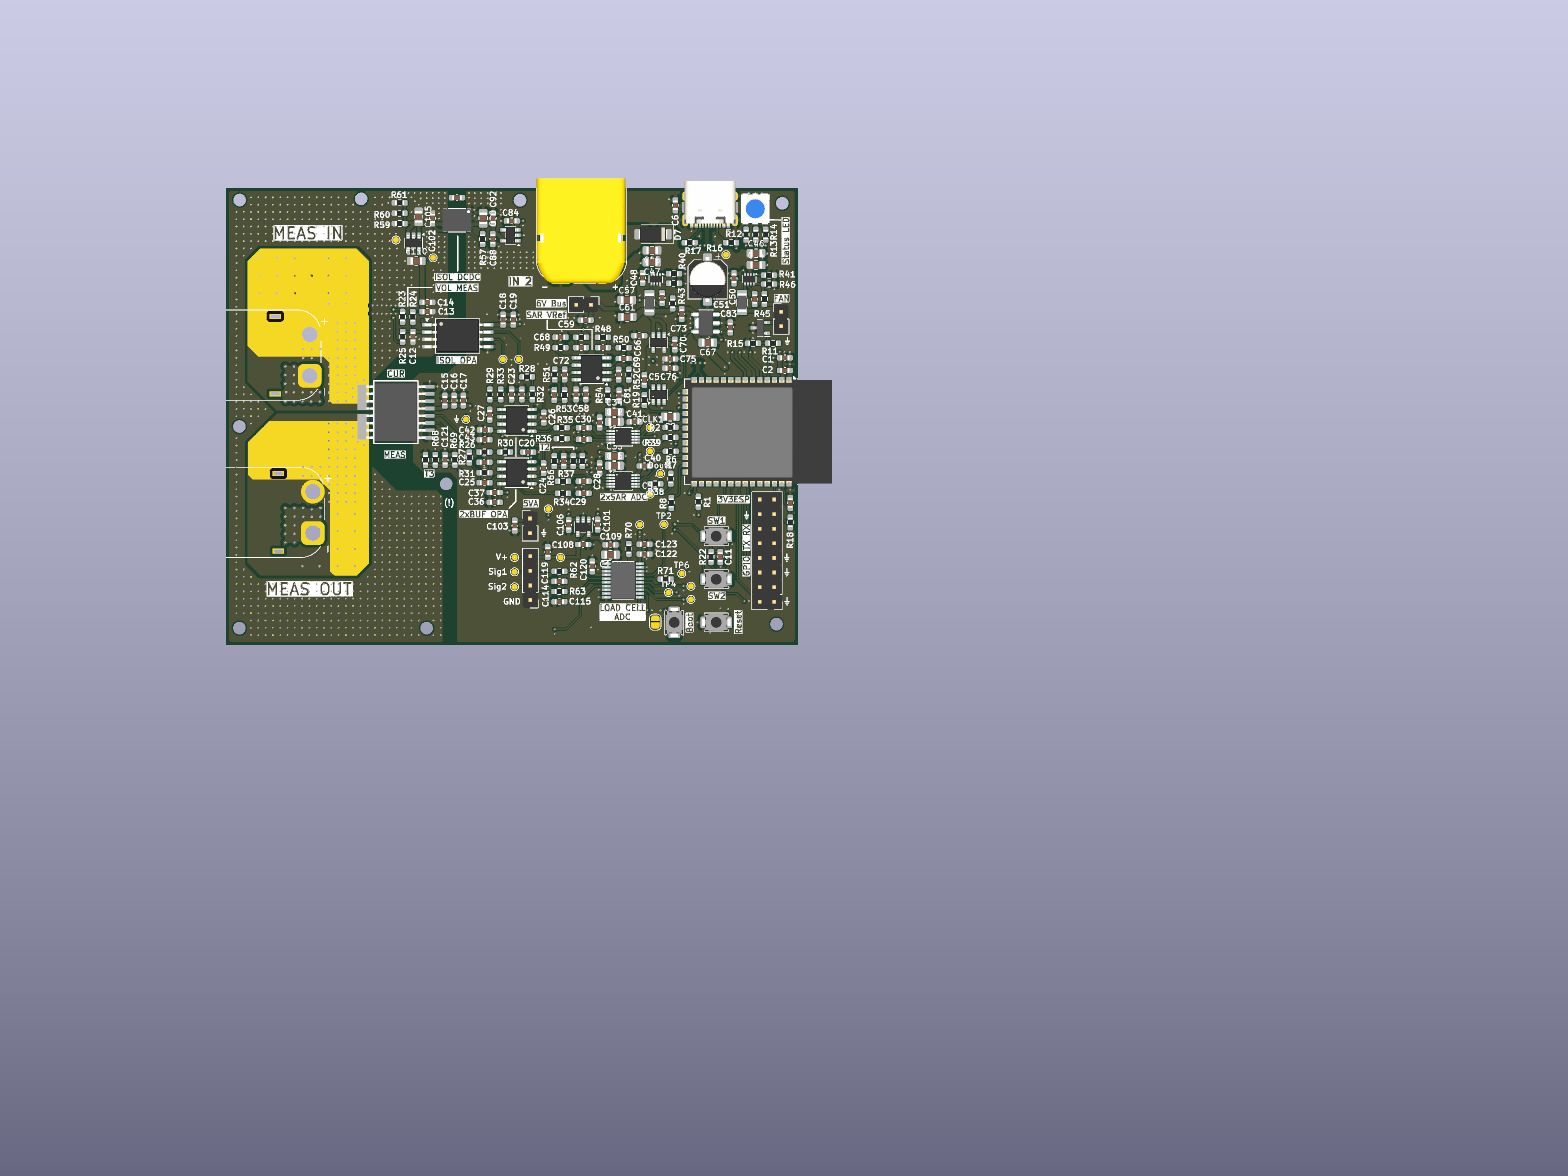
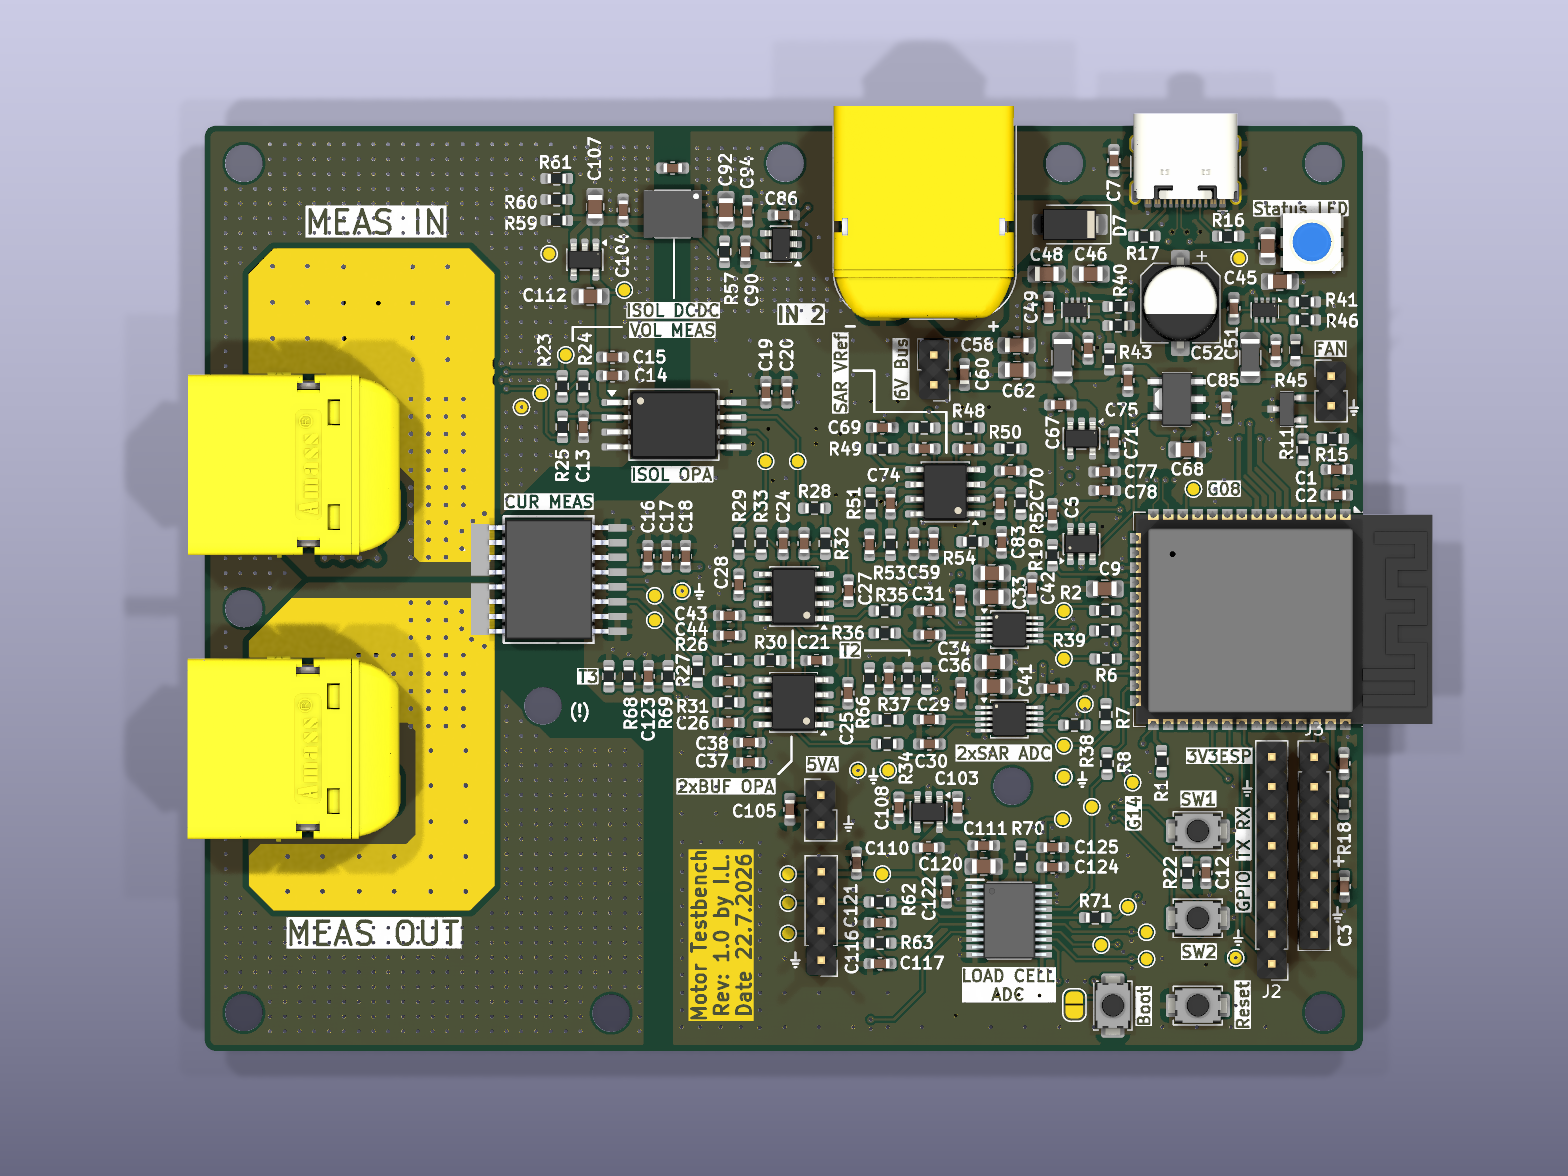
Add raytrace picture
[KiCad Version: 10.0.4]

diff --git a/README.md b/README.md
@@ -1,10 +1,11 @@
 <!-- KICAD_DIFF_GEN_START -->
 <p align="center"><img src="docs/motor_testbench_v1_0_top.png" width="500"><br><b>Top</b></p>
+<p align="center"><img src="docs/motor_testbench_v1_0_bottom.png" width="500"><br><b>Bottom</b></p>
 
 <p align="center"><img src="docs/motor_testbench_v1_0.svg" width="700"><br><b>Schematic — Page 1</b></p>
-<p align="center"><img src="docs/motor_testbench_v1_0-Load Cell and Temperature Measurements.svg" width="700"><br><b>Load Cell And Temperature Measurements — Page 2</b></p>
-<p align="center"><img src="docs/motor_testbench_v1_0-Power Regulation.svg" width="700"><br><b>Power Regulation — Page 3</b></p>
-<p align="center"><img src="docs/motor_testbench_v1_0-Voltage and Current Measurements.svg" width="700"><br><b>Voltage And Current Measurements — Page 4</b></p>
+<p align="center"><img src="docs/motor_testbench_v1_0-Power Regulation.svg" width="700"><br><b>Power Regulation — Page 2</b></p>
+<p align="center"><img src="docs/motor_testbench_v1_0-Voltage and Current Measurements.svg" width="700"><br><b>Voltage And Current Measurements — Page 3</b></p>
+<p align="center"><img src="docs/motor_testbench_v1_0-Load Cell and Temperature Measurements.svg" width="700"><br><b>Load Cell And Temperature Measurements — Page 4</b></p>
 
 ---
 ## 🛠 Technical Hardware Summary
@@ -15,34 +16,34 @@
 | :--- | :--- |
 | **Board Dimensions** | 99.5 x 79.51 mm |
 | **Total Area** | 7910.75 mm² |
-| **Layer Count** | 4 Copper Layers |
-| **Total Components** | 284 |
-| **SMD Components** | 242 |
-| **THT Components** | 8 |
+| **Layer Count** | 6 Copper Layers |
+| **Total Components** | 286 |
+| **SMD Components** | 244 |
+| **THT Components** | 9 |
 | **Unique Parts** | 72 |
+| **DRC Status** | ⚠️ 26 Errors, 109 Warnings |
 | **KiCad Version** | 10.0.4 |
 
 ### 📐 Manufacturing & DRC
 | Metric | Value |
 | :--- | :--- |
-| **Vias** | 1293 Total (1293 TH, 0 Blind, 0 Micro) |
+| **Vias** | 1443 Total (1443 TH, 0 Blind, 0 Micro) |
 
 ### 📄 Architecture
 - **Digital Buses:** `ESP_UART_RX, ESP_UART_TX, ESP_USB_D+, ESP_USB_D-`
 - **Power Domains:** `+3V3, GND, GNDREF`
 
 ### ⚙️ Mechanical
-- **Mounting Holes:** 12 (H11 (MountingHole_2.2mm_M2_DIN965), H12 (MountingHole_2.2mm_M2_DIN965), H10 (MountingHole_2.2mm_M2_DIN965), H7 (MountingHole_2.2mm_M2_DIN965), H1 (MountingHole_2.2mm_M2_DIN965), H8 (MountingHole_2.2mm_M2_DIN965), H6 (MountingHole_2.2mm_M2_DIN965), H2 (MountingHole_2.2mm_M2_DIN965), H5 (MountingHole_2.2mm_M2_DIN965), H4 (MountingHole_2.2mm_M2_DIN965), H3 (MountingHole_2.2mm_M2_DIN965), H9 (MountingHole_2.2mm_M2_DIN965))
+- **Mounting Holes:** 10 (H10 (MountingHole_3.2mm_M3), H9 (MountingHole_3.2mm_M3), H7 (MountingHole_3.2mm_M3), H1 (MountingHole_3.2mm_M3), H8 (MountingHole_3.2mm_M3), H6 (MountingHole_3.2mm_M3), H2 (MountingHole_3.2mm_M3), H5 (MountingHole_3.2mm_M3), H4 (MountingHole_3.2mm_M3), H3 (MountingHole_3.2mm_M3))
 
 ### 🚫 Do Not Populate (DNP)
-- C103 (1u)
-- C124 (1u)
-- C59 (1u)
-- C7 (1u)
-- C97 (100p)
-- C98 (22u)
-- C99 (22u)
-- IC2 (VIA2000SD)
+- C100 (22u)
+- C101 (22u)
+- C105 (1u)
+- C126 (1u)
+- C60 (1u)
+- C8 (1u)
+- C99 (100p)
 - R18 (22R)
 - R40 (R)
 - R41 (R)
@@ -56,26 +57,26 @@
 ### 📝 Project TODOs
 - TODO: Check Min / Max stable capacitances for the LDOS
 - TODO: FIND PROPER 6V 800mA INPUT TO 3V3 LDO
-- TODO: VAIHDA TÄHÄN PAREMPI ANTURI...
+- TODO: MAADOITA NÄMÄ?
+- TODO: TARKASTA PINOUT: TLV9001SIDBVRG4\n
 - TODO: VAIHDA TÄHÄN\nMouser No:\n637-PSOT36\nMfr. No:\nPSOT36
-- TODO:\n- VAIHDA / VALIKOI SEURAAVAT UUSIKSI:\n	-> VAIHDA ISO OPA !! ETSI ISOMPI SWINGINEN JA RATIOMETRINEN!\n	-> VAIHDA EHKÄ 22uF KONKAT 0806 KOKOON!\n-> FIXAA TUO HIGH CURRENT LIITTIMIEN LAYOUT\n-> LAYER STITCHING (LOPUKSI)\n-> SILKSCREENIT KUNTOON
-- TODO:\n\n- VAIHDA FULLY DIFFERENTIAL OPARIT JA FULLY DIFFERENTIAL MCP33131D VARIANTTI\n- LINJAA KAIKKI HW MOUNTIT, ESIM NUO MOUNTING HOLET\n- SIIRRÄ MAHDOLLISESTI TUO ACS LÄMPÖMITTAUKSEN TRACE SUOJAISAMPAAN KERROKSEEN?\n- POISTA TUO YKSI GPIO HEADER JOS SE HAITTAA ENEMMÄN KUIN HYÖDYTTÄÄ\n- LISÄÄ NAPPEJA / LEDEJÄ KÄYTTÖÄ VARTEN?\n- TULEEKO JOKU NÄYTTÖ?\n- KORJAA EDGE CUTS !!\n- VAIHDETAANKO VIRTA-ANTURIA? CZ3A05\n- LAITA ISON VIRRAN PUOLEN VIAT KUNTOON ! TARKASTA ETTEI POISTETTU MASKI OLE LIIAN LHÄELLÄ / LISÄÄ TURVAVÄLIÄ!\n	-> JOTKUT VIAT NYT RISKITEKIJÖITÄ! TINA VALUU NIIHHIN JA SHORTTAA YLÄKERROKSEN SUORAAN ALAS!!!\n- PITÄISIKÖ XT LIITTIMET KÄÄNTÄÄ TAKAISIN KOHTI PÄÄTYÄ JOLLOIN SAISI ENEMMÄN JÄHDYTYS PINTA-ALAA LEVYLLÄE / TRACE SEKÄ LYHENEE ETTÄ LEVENEE !?\n- VAIHDA ESP32 KUNNOLLINEN 6V KESTÄVÄ LDO !?\n- LAITA JOKU ENABLE / RESET NAPPI JOLLA ESP32 SAA BOOTATTUA / BOOT MODEEN / BOOTLOADERIN LADATTUA !!!!
+- TODO:\n\nVARMISTA ETTÄ PINNIT JA FOOTPRINT OIKEAT:\nPJA3402_R1_00001\nSOT-23-3\n
 
 ### 🧠 Core ICs & Modules
 | Reference | Component | Function / Description |
 | :--- | :--- | :--- |
-| IC6 | [MCP3564RT-E_ST](https://octopart.com/search?q=MCP3564RT-E/ST) | Analog to Digital Converters - ADC 24-bit delta-sigma ADC w/Vref, Quad channel, 3V |
-| IC1 | [PJA3402_R1_00001](https://octopart.com/search?q=PJA3402_R1_00001) | MOSFETs 30V N-Channel Enhancement Mode MOSFET |
+| IC6 | [MCP3564RT-E_ST](https://componentsearchengine.com/search.html?searchString=MCP3564RT-E/ST) | Analog to Digital Converters - ADC 24-bit delta-sigma ADC w/Vref, Quad channel, 3V |
+| IC1 | [PJA3402_R1_00001](https://componentsearchengine.com/search.html?searchString=PJA3402_R1_00001) | MOSFETs 30V N-Channel Enhancement Mode MOSFET |
 | U1 | ESP32-S3-WROOM-1 | RF Module, ESP32-S3 SoC, Wi-Fi 802.11b/g/n, Bluetooth, BLE, 32-bit, 3.3V, onboard antenna, SMD |
 | U2 | OPA310SxDBV | Single Rail-to-Rail Input/Output Operational Amplifier with Shutdown, 1.5..5.5V supply, 3MHz GBW, 250uV offset voltage, 150mA output current, SOT-23-6 |
 | U8 | TPS62933 | 3.8-30V, 3A Synchronous Buck Converters with pulse frequency modulation (PFM), SOT583-8 |
-| IC4 | [AP7361C-33Y5-13](https://octopart.com/search?q=AP7361C-33Y5-13) | DIODES INC. - AP7361C-33Y5-13 - LDO, FIXED, 3.3V, 1A, -40 TO 85DEG C |
+| IC4 | [AP7361C-33Y5-13](https://componentsearchengine.com/search.html?searchString=AP7361C-33Y5-13) | DIODES INC. - AP7361C-33Y5-13 - LDO, FIXED, 3.3V, 1A, -40 TO 85DEG C |
 | U10 | OPA2387DR | Precision, 10-MHz, Low-Noise, Low-Power, RRIO, CMOS Operational Amplifier, SOIC-8 |
-| IC3 | [NCV8184DR2G](https://octopart.com/search?q=NCV8184DR2G) | 70 mA Source Capability; Output Tracks within +/- 3m V; Low Input Voltage Tracking Performance (Works Down to Vref = 2.0 V); Low Dropout (0.35 V Typ.@50 mA); Low Quiescent Current; Thermal Shutdown; AEC Qualified; PPAP Capable |
+| IC3 | [NCV8184DR2G](https://componentsearchengine.com/search.html?searchString=NCV8184DR2G) | 70 mA Source Capability; Output Tracks within +/- 3m V; Low Input Voltage Tracking Performance (Works Down to Vref = 2.0 V); Low Dropout (0.35 V Typ.@50 mA); Low Quiescent Current; Thermal Shutdown; AEC Qualified; PPAP Capable |
 | U14 | TPS7A2018PDBVRG4 | TPS7A2018PDBVRG4 |
 | U9 | TPS62933 | 3.8-30V, 3A Synchronous Buck Converters with pulse frequency modulation (PFM), SOT583-8 |
 | U18 | TPS7A2045PDBVR | TPS7A2045PDBVR |
-| IC5 | [MIE1W0505BGLVH-3R-P](https://octopart.com/search?q=MIE1W0505BGLVH-3R-P) | Isolated DC/DC Converters - SMD Next gen ultra small size isolated power module |
+| IC5 | [MIE1W0505BGLVH-3R-P](https://componentsearchengine.com/search.html?searchString=MIE1W0505BGLVH-3R-P) | Isolated DC/DC Converters - SMD Next gen ultra small size isolated power module |
 | U7 | MCP1502T-50E/CHY | Voltage References 50 ppm 0.1% Voltage Reference |
 | U11 | TPS7A2055PDBVR | TPS7A2055PDBVR |
 | U16 | TPS7A2055PDBVR | TPS7A2055PDBVR |
@@ -83,29 +84,29 @@
 | U13 | TPS7A2033PDBVR | TPS7A2033PDBVR |
 | U17 | TPS7A2033PDBVR | TPS7A2033PDBVR |
 | U12 | TPS7A2050PDBVR | TPS7A2050PDBVR |
-| U3 | [CZ3723](https://octopart.com/search?q=CZ3A05) | Board Mount Current Sensors 60A Precise unipolar Coreless Current Sensor w/UL61800 |
+| U3 | [CZ3723](https://componentsearchengine.com/search.html?searchString=CZ3A05) | Board Mount Current Sensors 60A Precise unipolar Coreless Current Sensor w/UL61800 |
 | U6 | OPA2328DR | Precision, 10-MHz, Low-Noise, Low-Power, RRIO, CMOS Operational Amplifier, SOIC-8 |
 | U4 | AMC1351DWV | Precision Reinforced Isolated Amplifier, 5V Input, 300 kHz Bandwidth, 0.4V/V, 0.2% Gain Tolerance, Differential Output, SOIC-8 |
 | U5 | OPA2328DR | Precision Amplifiers Dual-channel precis ion 50-uV offset vo |
-| IC2 | [VIA2000SD](https://octopart.com/search?q=VIA2000SD) | Isolation IC Inverters, Power Supplies 8-SOP Surface Mount |
 
 ### 🔌 Connectors & Interfaces
 | Reference | Type | Component | Description |
 | :--- | :--- | :--- | :--- |
-| J9 | Connector | Conn_01x04_Pin | Generic connector, single row, 01x04, script generated |
-| J2 | Connector | Conn_02x08_Odd_Even | Generic connector, double row, 02x08, odd/even pin numbering scheme (row 1 odd numbers, row 2 even numbers), script generated (kicad-library-utils/schlib/autogen/connector/) |
+| J11 | Connector | Conn_01x04_Pin | Generic connector, single row, 01x04, script generated |
+| J3 | Connector | Conn_01x07_Pin | Generic connector, single row, 01x07, script generated |
 | J1 | Connector | USB_C_Receptacle_USB2.0_16P | USB 2.0-only 16P Type-C Receptacle connector |
-| J8 | Connector | Conn_01x02_Pin | Generic connector, single row, 01x02, script generated |
-| J6 | Connector | Conn_01x02_Pin | Generic connector, single row, 01x02, script generated |
+| J2 | Connector | Conn_01x08_Pin | Generic connector, single row, 01x08, script generated |
+| J10 | Connector | Conn_01x02_Pin | Generic connector, single row, 01x02, script generated |
 | J7 | Connector | Conn_01x02_Pin | Generic connector, single row, 01x02, script generated |
-| J5 | Connector | V_bat_secondary | Generic connector, single row, 01x02, script generated |
-| J4 | Connector | [XT60PW-M](https://octopart.com/search?q=XT60PW-M) | Connector: DC supply; socket; XT60; male; PIN: 2; on PCBs; THT; 30A |
-| J3 | Connector | [XT60PW-M](https://octopart.com/search?q=XT60PW-M) | Connector: DC supply; socket; XT60; male; PIN: 2; on PCBs; THT; 30A |
+| J8 | Connector | Conn_01x02_Pin | Generic connector, single row, 01x02, script generated |
+| J6 | Connector | V_bat_secondary | Generic connector, single row, 01x02, script generated |
+| J5 | Connector | [XT60PW-M](https://componentsearchengine.com/search.html?searchString=XT60PW-M) | Connector: DC supply; socket; XT60; male; PIN: 2; on PCBs; THT; 30A |
+| J4 | Connector | [XT60PW-M](https://componentsearchengine.com/search.html?searchString=XT60PW-M) | Connector: DC supply; socket; XT60; male; PIN: 2; on PCBs; THT; 30A |
 
 ### 📏 Passive Components
 | Component | Breakdown |
 | :--- | :--- |
-| Capacitor | 96x0603, 27x0805 and 1xOther |
+| Capacitor | 97x0603, 28x0805 and 1xOther |
 | Diode | 2x0402, 2x0603 and 6xOther |
 | Inductor | 1x1206 |
 | Resistor | 73x0603 |